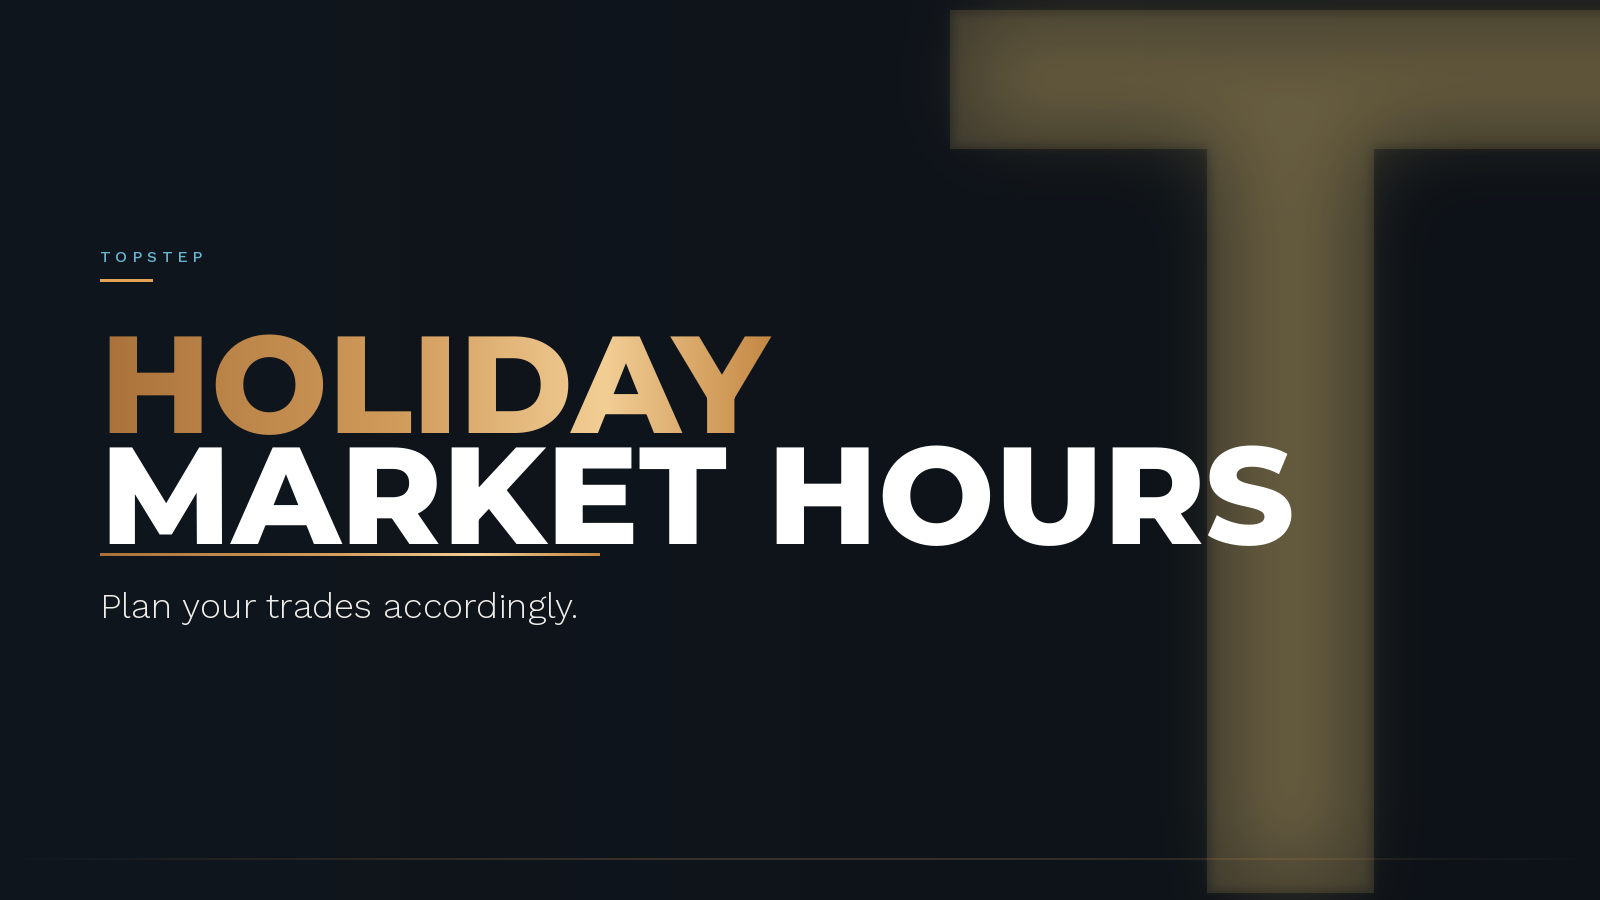
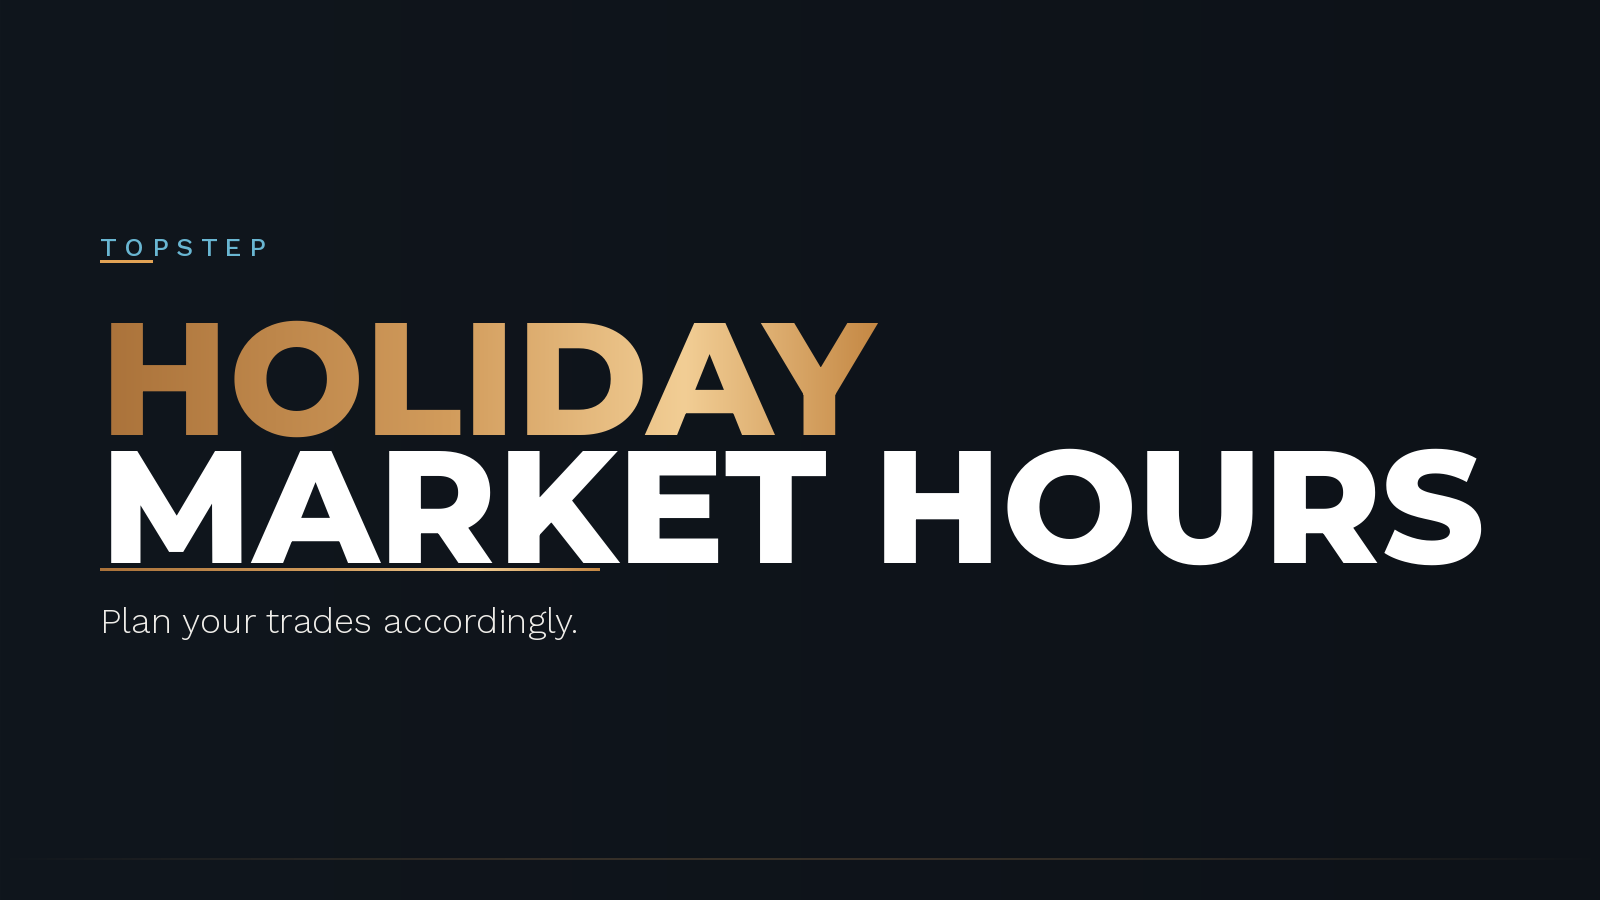
Remove T watermark, increase TOPSTEP eyebrow to 26px
Per feedback: drop the background T entirely and give the TOPSTEP
brand label more weight. Headline auto-scales to 160px now that the
full canvas width is available (MAX_W 1200→1400).

https://claude.ai/code/session_01F4ozoJ9iaV3tvARdGhJLPd

Changed region(s): [[0.0625, 0.0, 1.0, 0.9956], [0.0625, 0.2489, 0.1562, 0.3111]]

diff --git a/make_graphic.py b/make_graphic.py
@@ -100,43 +100,8 @@ for i, alpha in enumerate(range(0, 160, 5)):
 img = Image.alpha_composite(img.convert('RGBA'), glow).convert('RGB')
 draw = ImageDraw.Draw(img)
 
-# ── Big "T" watermark — glow approach so it reads golden, not muddy ────────
-TX, TY = 950, 10
-TW, TH = 680, 882
-BAR_H  = 138
-SW     = int(TW * 0.245)
-SX     = TX + (TW - SW) // 2
-
-# Draw T at full opacity in bright warm gold for the source shape
-T_src = Image.new('RGBA', (W, H), (0, 0, 0, 0))
-ImageDraw.Draw(T_src).rectangle([TX, TY, TX + TW, TY + BAR_H], fill=(255, 218, 128, 255))
-ImageDraw.Draw(T_src).rectangle([SX, TY, SX + SW, TY + TH],    fill=(255, 218, 128, 255))
-
-# Layer 1 — wide soft halo (large blur, very low alpha)
-halo = np.array(T_src.filter(ImageFilter.GaussianBlur(radius=45))).astype(np.float32)
-halo[:, :, 3] *= 0.22
-halo = halo.clip(0, 255).astype(np.uint8)
-
-# Layer 2 — tight glow (small blur, low alpha — brightens edges)
-edge = np.array(T_src.filter(ImageFilter.GaussianBlur(radius=6))).astype(np.float32)
-edge[:, :, 3] *= 0.10
-edge = edge.clip(0, 255).astype(np.uint8)
-
-# Layer 3 — crisp fill (flat shape, ~12 % opacity)
-crisp = np.array(T_src).astype(np.float32)
-crisp[:, :, 3] *= 0.12
-crisp = crisp.clip(0, 255).astype(np.uint8)
-
-base = img.convert('RGBA')
-base = Image.alpha_composite(base, Image.fromarray(halo,  'RGBA'))
-base = Image.alpha_composite(base, Image.fromarray(edge,  'RGBA'))
-base = Image.alpha_composite(base, Image.fromarray(crisp, 'RGBA'))
-img  = base.convert('RGB')
-draw = ImageDraw.Draw(img)
-
 # ── Determine headline font size ───────────────────────────────────────────
-# "MARKET HOURS" must fit within MAX_W px (left margin + MAX_W < T stem edge)
-MAX_W = 1200
+MAX_W = 1400
 
 for HL_SZ in range(210, 79, -2):
     hf = fnt('h', HL_SZ)
@@ -146,7 +111,7 @@ for HL_SZ in range(210, 79, -2):
 
 HF  = fnt('h', HL_SZ)
 SF  = fnt('wsl', 36)
-EF  = fnt('wsm', 16)
+EF  = fnt('wsm', 26)
 
 _, hh = measure('HOLIDAY',      HF)
 _, mh = measure('MARKET HOURS', HF)
@@ -163,7 +128,7 @@ DIV_GAP   = 42   # MARKET HOURS → divider gap
 DIV_H     = 3    # divider height
 SUB_GAP   = 28   # divider → subtitle gap
 _, sub_h  = measure('Plan your trades accordingly.', SF)
-ey_h      = 20   # eyebrow approx height
+_, ey_h   = measure('T O P S T E P', EF)
 
 total_h = ey_h + EY_GAP + RU_H + RU_GAP + hh + HL_GAP + mh + DIV_GAP + DIV_H + SUB_GAP + sub_h
 
